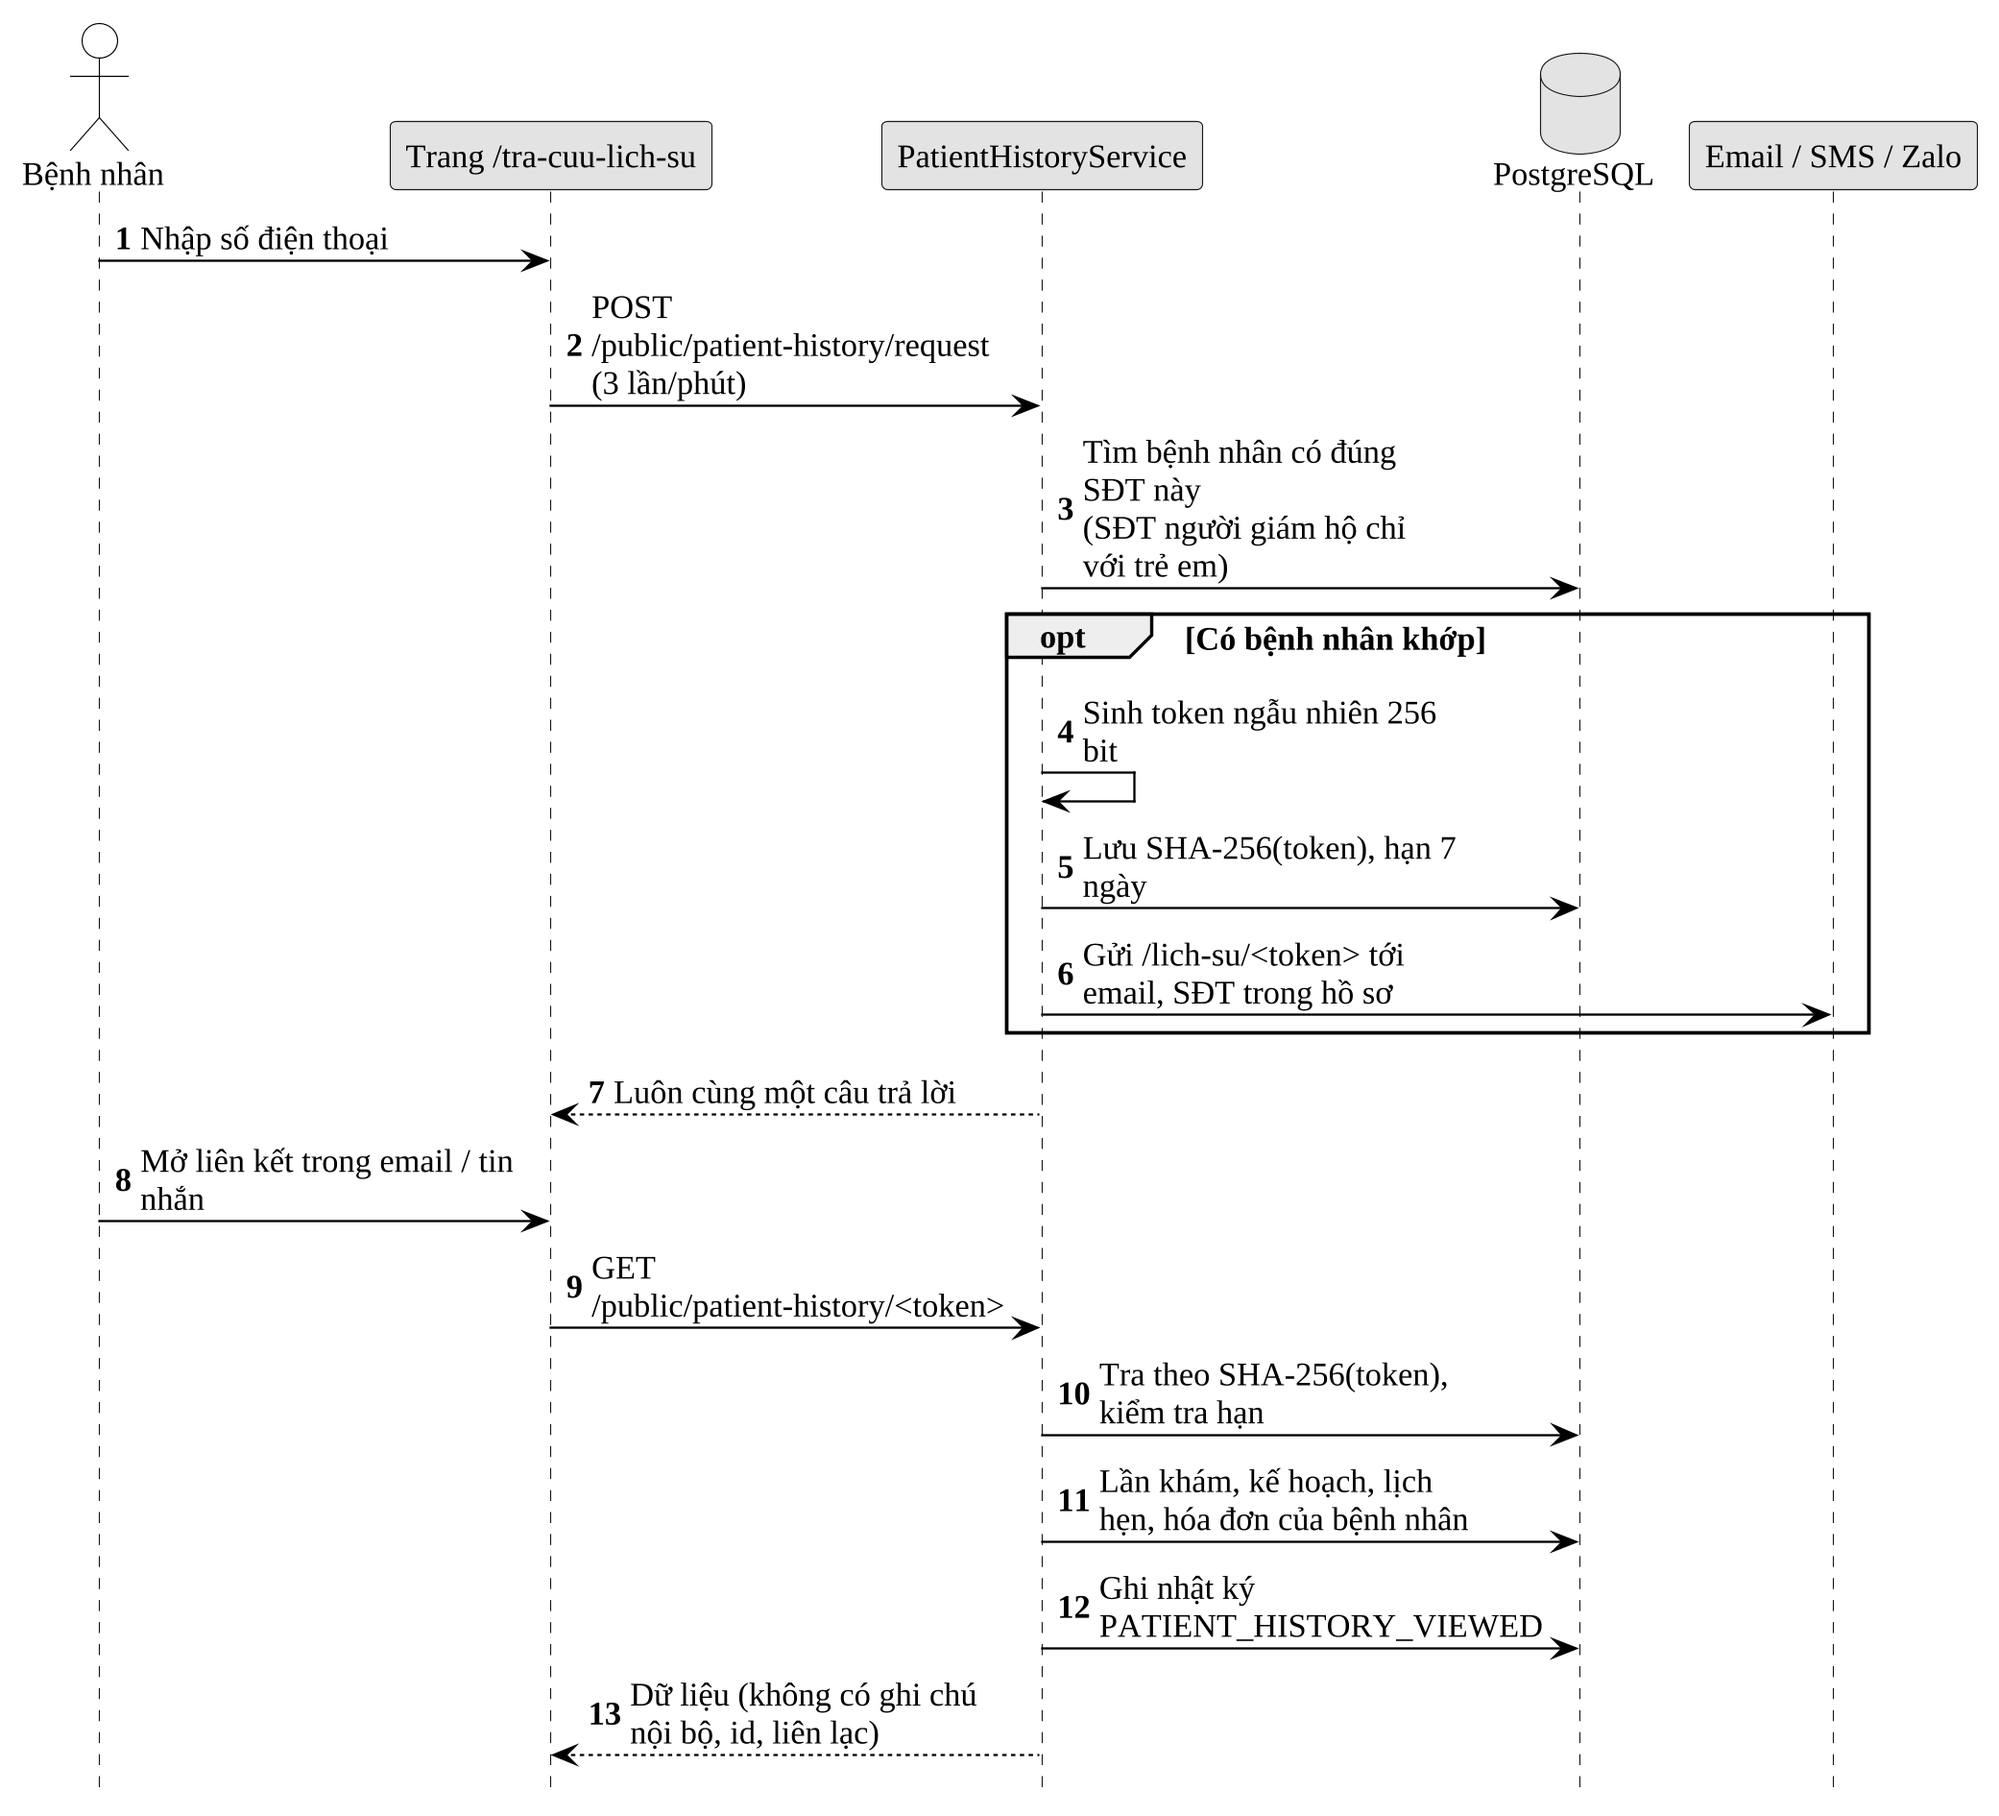
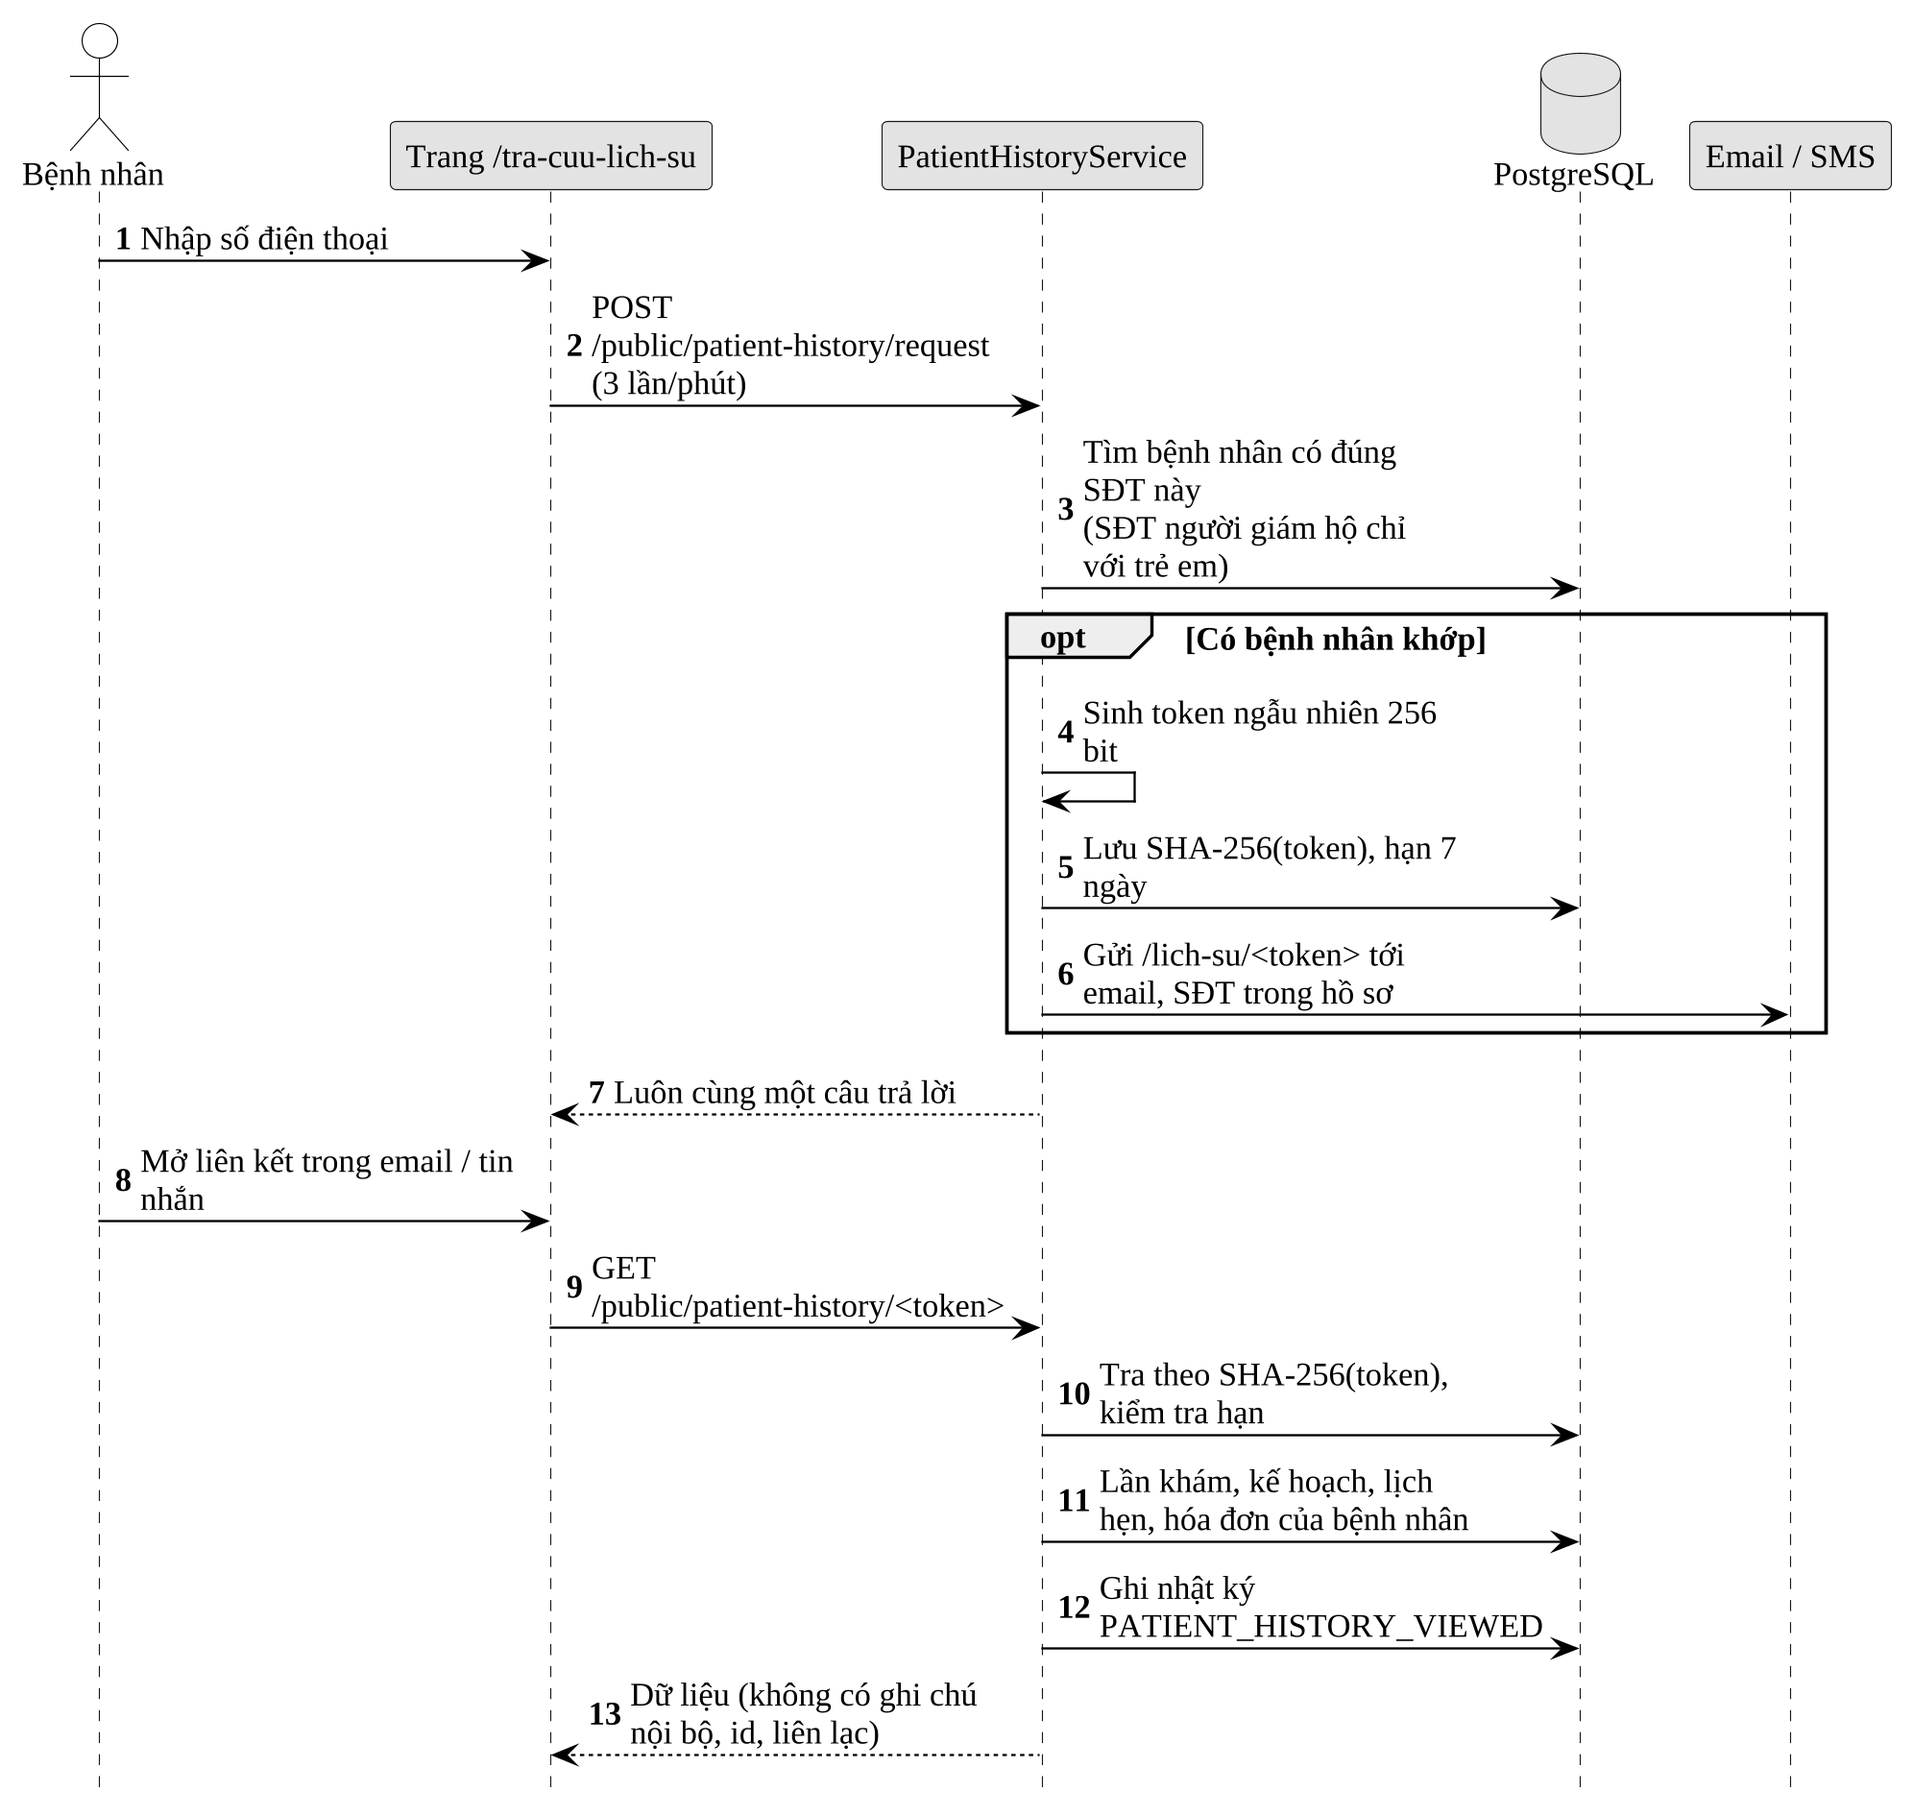
Báo cáo: bỏ phần Zalo ZNS (văn bản và sơ đồ)
Claude-Session: https://claude.ai/code/session_01TBoubatqgAjjLj8yNYh2bv

diff --git a/docs/10_Thesis/bao-cao/11-chuong-1.md b/docs/10_Thesis/bao-cao/11-chuong-1.md
@@ -43,7 +43,7 @@ Thông tư 46/2018/TT-BYT của Bộ Y tế quy định về hồ sơ bệnh án
 
 Thị trường có hai nhóm giải pháp chính. Nhóm thứ nhất là các phần mềm nước ngoài lâu năm như Open Dental [@opendental] (mã nguồn mở) và Dentrix [@dentrix] (thương mại): đầy đủ chức năng từ lịch hẹn, sơ đồ răng đến bảo hiểm và báo cáo, nhưng được thiết kế theo quy trình, thanh toán và bảo hiểm của Bắc Mỹ, giao diện tiếng Anh, chủ yếu cài trên máy tính để bàn.
 
-Nhóm thứ hai là các phần mềm trong nước chạy trên nền tảng đám mây, tiêu biểu là SimlyDent [@simlydent]. Theo nhà cung cấp công bố, SimlyDent có lịch hẹn, sơ đồ răng tương tác, hồ sơ bệnh án điện tử, thu chi, kho vật tư, nhắc lịch qua Zalo OA, SMS, email và hỗ trợ nhiều chi nhánh; đặt lịch trực tuyến là tính năng mua thêm ở một số gói [@simlydent_gia]. Các trang giới thiệu không đề cập tới việc tự đối soát chuyển khoản theo hóa đơn, giới hạn dữ liệu theo từng bác sĩ hay trợ lý AI. Ngoài ra, nhiều phòng khám nhỏ vẫn quản lý bằng sổ sách, bảng tính và ứng dụng nhắn tin.
+Nhóm thứ hai là các phần mềm trong nước chạy trên nền tảng đám mây, tiêu biểu là SimlyDent [@simlydent]. Theo nhà cung cấp công bố, SimlyDent có lịch hẹn, sơ đồ răng tương tác, hồ sơ bệnh án điện tử, thu chi, kho vật tư, nhắc lịch qua SMS, email và hỗ trợ nhiều chi nhánh; đặt lịch trực tuyến là tính năng mua thêm ở một số gói [@simlydent_gia]. Các trang giới thiệu không đề cập tới việc tự đối soát chuyển khoản theo hóa đơn, giới hạn dữ liệu theo từng bác sĩ hay trợ lý AI. Ngoài ra, nhiều phòng khám nhỏ vẫn quản lý bằng sổ sách, bảng tính và ứng dụng nhắn tin.
 
 Bảng 1.1 so sánh các tiêu chí quan trọng giữa cách quản lý thủ công, phần mềm nước ngoài, phần mềm trong nước và hệ thống GenSmile của đồ án. Với SimlyDent, bảng chỉ ghi những gì nhà cung cấp công bố trên trang giới thiệu; "không thấy công bố" nghĩa là trang giới thiệu không nhắc tới, không khẳng định phần mềm không có.
 
@@ -51,14 +51,14 @@ Bảng 1.1 so sánh các tiêu chí quan trọng giữa cách quản lý thủ c
 Bảng 1.1. So sánh các cách quản lý phòng khám nha khoa
 :::
 
-| Tiêu chí | Sổ sách, bảng tính, Zalo | Phần mềm nước ngoài (Open Dental, Dentrix) | Phần mềm trong nước (SimlyDent) | GenSmile (đồ án) |
+| Tiêu chí | Sổ sách, bảng tính, tin nhắn | Phần mềm nước ngoài (Open Dental, Dentrix) | Phần mềm trong nước (SimlyDent) | GenSmile (đồ án) |
 |---|---|---|---|---|
 | Lịch hẹn nhiều bác sĩ, chống trùng giờ | Thủ công | Có | Có | Có, khóa ở cơ sở dữ liệu |
 | Bệnh nhân tự đặt lịch trực tuyến | Không | Tùy gói, thêm phí | Mua thêm ở một số gói | Có |
 | Sơ đồ răng, lịch sử theo từng răng | Không | Có | Có sơ đồ răng | Có, xem lịch sử ngay trên răng |
 | Kế hoạch điều trị, báo giá | Thủ công | Có | Có | Có |
 | Thanh toán chuyển khoản QR, tự đối soát | Không | Không phù hợp Việt Nam | Không thấy công bố | Có (VietQR, webhook) |
-| Nhắc lịch qua Zalo/SMS tiếng Việt | Thủ công | Không | Có | Có |
+| Nhắc lịch qua SMS, email tiếng Việt | Thủ công | Không | Có | Có |
 | Phân quyền theo vai trò và theo dòng dữ liệu | Không | Theo vai trò | Phân quyền nhân sự | Có cả hai |
 | Nhật ký kiểm toán | Không | Có | Không thấy công bố | Có |
 | Bệnh nhân tự tra cứu lịch sử khám | Không | Qua cổng bệnh nhân | Không thấy công bố | Có, đường dẫn bảo mật |
@@ -166,7 +166,7 @@ Mọi thao tác nhạy cảm (đăng nhập, xem hồ sơ qua kênh đặc biệ
 
 VietQR là chuẩn mã QR thanh toán liên ngân hàng tại Việt Nam, xây dựng trên tiêu chuẩn kỹ thuật của Ngân hàng Nhà nước [@vietqr]. Một mã VietQR chứa mã ngân hàng, số tài khoản nhận, số tiền và nội dung chuyển khoản; khách mở ứng dụng ngân hàng bất kỳ, quét mã là các thông tin được điền sẵn. Đồ án sinh mã VietQR trên mỗi hóa đơn với nội dung là mã hóa đơn. Khi tiền về tài khoản, dịch vụ trung gian theo dõi tài khoản ngân hàng gửi một lời gọi webhook tới hệ thống; hệ thống kiểm tra khóa xác thực đi kèm lời gọi, tìm hóa đơn theo nội dung và số tiền, rồi tự ghi nhận thanh toán. Mỗi giao dịch chỉ được ghi một lần dù lời gọi bị gửi lặp lại. Giao dịch không khớp được đưa vào danh sách chờ lễ tân xử lý tay.
 
-Về liên lạc, hệ thống gửi email qua SMTP, gửi SMS qua nhà cung cấp tin nhắn thương hiệu và gửi tin Zalo qua Zalo Notification Service (ZNS) [@zns], dịch vụ cho phép doanh nghiệp gửi tin thông báo theo mẫu đã duyệt tới số điện thoại người dùng Zalo. Tin nhắn được gửi theo thứ tự ưu tiên kênh, có chống gửi trùng và ghi nhật ký kết quả.
+Về liên lạc, hệ thống gửi email qua SMTP và gửi SMS qua nhà cung cấp tin nhắn thương hiệu (SMS brandname). Tin nhắn có chống gửi trùng và ghi nhật ký kết quả.
 
 ## 1.8. Mô hình ngôn ngữ lớn trong phần mềm nghiệp vụ
 

diff --git a/docs/10_Thesis/bao-cao/01-dau.md b/docs/10_Thesis/bao-cao/01-dau.md
@@ -110,7 +110,7 @@ Giảng viên hướng dẫn: TS. Mai Thúy Nga
 TÓM TẮT ĐỒ ÁN
 :::
 
-Đồ án xây dựng GenSmile, một ứng dụng web quản lý toàn bộ hoạt động của một phòng khám nha khoa nhiều bác sĩ: hồ sơ bệnh nhân, lịch hẹn và đặt lịch trực tuyến, tiếp nhận và hàng chờ, phiên khám với sơ đồ răng và lịch sử điều trị theo từng răng, kế hoạch điều trị và báo giá, hóa đơn và thanh toán (kể cả chuyển khoản VietQR được đối soát tự động), nhân sự, ca làm việc và tính lương, kho vật tư, nhắc lịch qua email/SMS/Zalo, bảng điều khiển và báo cáo cho quản lý. Bệnh nhân có thể tự đặt lịch, xác nhận hoặc dời lịch và tra cứu lịch sử khám qua đường dẫn bảo mật mà không cần tài khoản. Điểm nổi bật của hệ thống là lịch sử điều trị theo từng răng, chống đặt trùng lịch ở mức cơ sở dữ liệu và đối soát chuyển khoản tự động.
+Đồ án xây dựng GenSmile, một ứng dụng web quản lý toàn bộ hoạt động của một phòng khám nha khoa nhiều bác sĩ: hồ sơ bệnh nhân, lịch hẹn và đặt lịch trực tuyến, tiếp nhận và hàng chờ, phiên khám với sơ đồ răng và lịch sử điều trị theo từng răng, kế hoạch điều trị và báo giá, hóa đơn và thanh toán (kể cả chuyển khoản VietQR được đối soát tự động), nhân sự, ca làm việc và tính lương, kho vật tư, nhắc lịch qua email và SMS, bảng điều khiển và báo cáo cho quản lý. Bệnh nhân có thể tự đặt lịch, xác nhận hoặc dời lịch và tra cứu lịch sử khám qua đường dẫn bảo mật mà không cần tài khoản. Điểm nổi bật của hệ thống là lịch sử điều trị theo từng răng, chống đặt trùng lịch ở mức cơ sở dữ liệu và đối soát chuyển khoản tự động.
 
 Hệ thống dùng kiến trúc ứng dụng một trang (React) gọi REST API (NestJS) trên cơ sở dữ liệu PostgreSQL, gồm 23 module nghiệp vụ, khoảng 340 điểm cuối API và 70 bảng dữ liệu. Phân quyền theo vai trò với 133 mã quyền, kết hợp giới hạn theo từng dòng dữ liệu (bác sĩ chỉ thấy bệnh nhân của mình) và nhật ký kiểm toán cho mọi thao tác nhạy cảm. Đồ án tích hợp mô hình ngôn ngữ lớn ở dạng có kiểm soát: AI chỉ soạn nháp và đề xuất, người dùng duyệt mới thực hiện, mô hình không nhìn thấy tên hay số điện thoại bệnh nhân.
 
@@ -224,7 +224,6 @@ DANH MỤC TỪ VIẾT TẮT
 | KPI | Key Performance Indicator | Chỉ số hiệu suất chính |
 | KT | – | Mã ca kiểm thử (Chương 5); mã yêu cầu chức năng (BN, LH, KB, TT…) giải thích ở Mục 2.3 |
 | LLM | Large Language Model | Mô hình ngôn ngữ lớn |
-| OA | Official Account | Tài khoản chính thức (của doanh nghiệp trên Zalo) |
 | ORM | Object-Relational Mapping | Ánh xạ đối tượng – quan hệ |
 | OWASP | Open Worldwide Application Security Project | Dự án mở về bảo mật ứng dụng |
 | QR | Quick Response (code) | Mã vạch hai chiều |
@@ -239,7 +238,6 @@ DANH MỤC TỪ VIẾT TẮT
 | UML | Unified Modeling Language | Ngôn ngữ mô hình hóa thống nhất |
 | UTC | Coordinated Universal Time | Giờ phối hợp quốc tế |
 | UUID | Universally Unique Identifier | Định danh duy nhất toàn cục |
-| ZNS | Zalo Notification Service | Dịch vụ tin nhắn thông báo của Zalo |
 
 [[NGAT]]
 

diff --git a/docs/progress/session-log.md b/docs/progress/session-log.md
@@ -168,3 +168,4 @@
 - build.py: bước `short_tails` (pdftotext -bbox-layout, nhận đoạn ≥2 dòng có dòng cuối ≤2 từ) + `tighten` (w:spacing −12, lần hai −14 twips).
 - Đợt 2: bỏ ERD nhóm điều trị–kế hoạch và nhân sự–kho (mô tả bằng lời), bỏ 4 ảnh Ch.4 (điều phối, đóng phiên, kỳ lương, chỉ số), use case 10 cm; gọn 1.2, 3.3.12, 3.5; Bảng 2.9 bỏ cột mã quyền. Kết quả: 120 trang (Mở đầu tr.1, Ch1 6, Ch2 18, Ch3 32, Ch4 65, Ch5 81, KL 93, TLTK 95, PL 99); Ch3 18 hình, Ch4 12 ảnh. Bước co chữ kéo được 10 đoạn; còn vài dòng cuối ngắn trong bảng/tài liệu tham khảo (không áp dụng).
 - Người dùng xác nhận tên đề tài "Phát triển phần mềm quản lý phòng khám nha khoa" đúng theo quyết định.
+- Bỏ toàn bộ nội dung Zalo/ZNS khỏi báo cáo theo yêu cầu (Tóm tắt, viết tắt OA/ZNS, Mở đầu, 1.2, 1.7, Bảng 1.1, 2.1, 2.2, 3.1, Bảng 3.1, 3.3.6, Ch5, KL, Phụ lục) và 5 sơ đồ (2.1, 2.6, 3.1, tra cứu lịch sử, nhắc lịch); tài liệu [zns] tự rơi khỏi danh mục. Mã nguồn vẫn còn kênh Zalo.

diff --git a/docs/10_Thesis/bao-cao/21-phu-luc.md b/docs/10_Thesis/bao-cao/21-phu-luc.md
@@ -21,7 +21,7 @@ npm install
 npm run dev                   # giao diện tại http://localhost:5173
 ```
 
-Khi chưa cấu hình dịch vụ AI, trợ lý AI chạy ở chế độ dự phòng; khi chưa cấu hình SMS, Zalo, tin nhắn được ghi ra nhật ký thay vì gửi thật.
+Khi chưa cấu hình dịch vụ AI, trợ lý AI chạy ở chế độ dự phòng; khi chưa cấu hình SMS, tin nhắn được ghi ra nhật ký thay vì gửi thật.
 
 ### A.2. Triển khai lên máy chủ ảo
 
